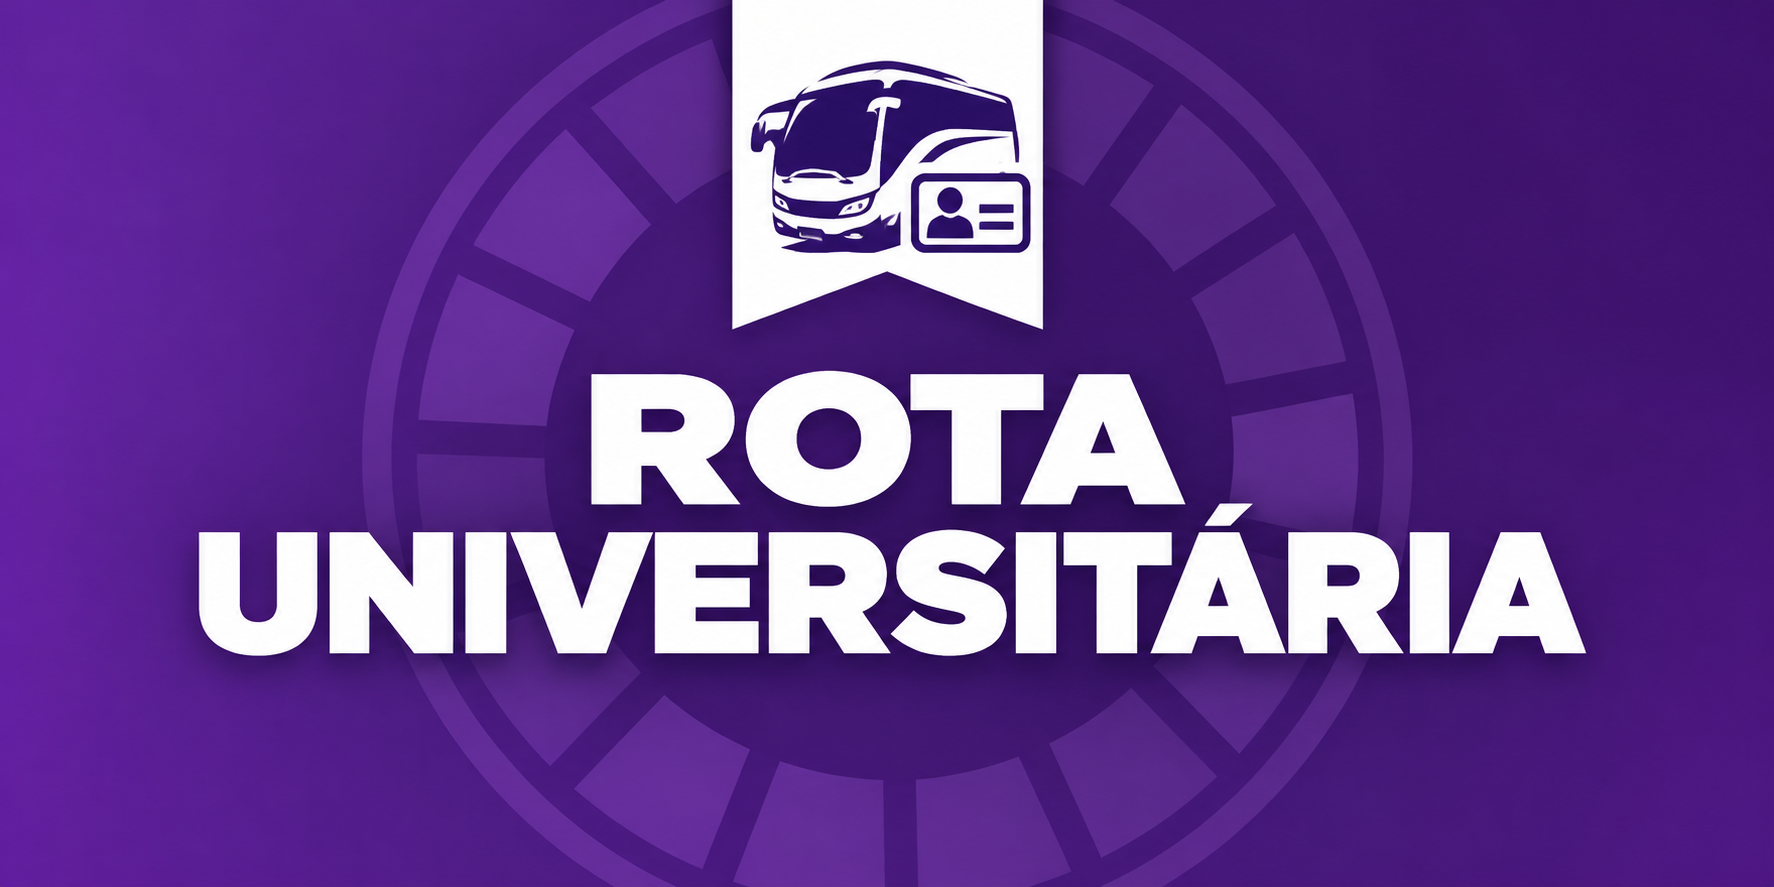
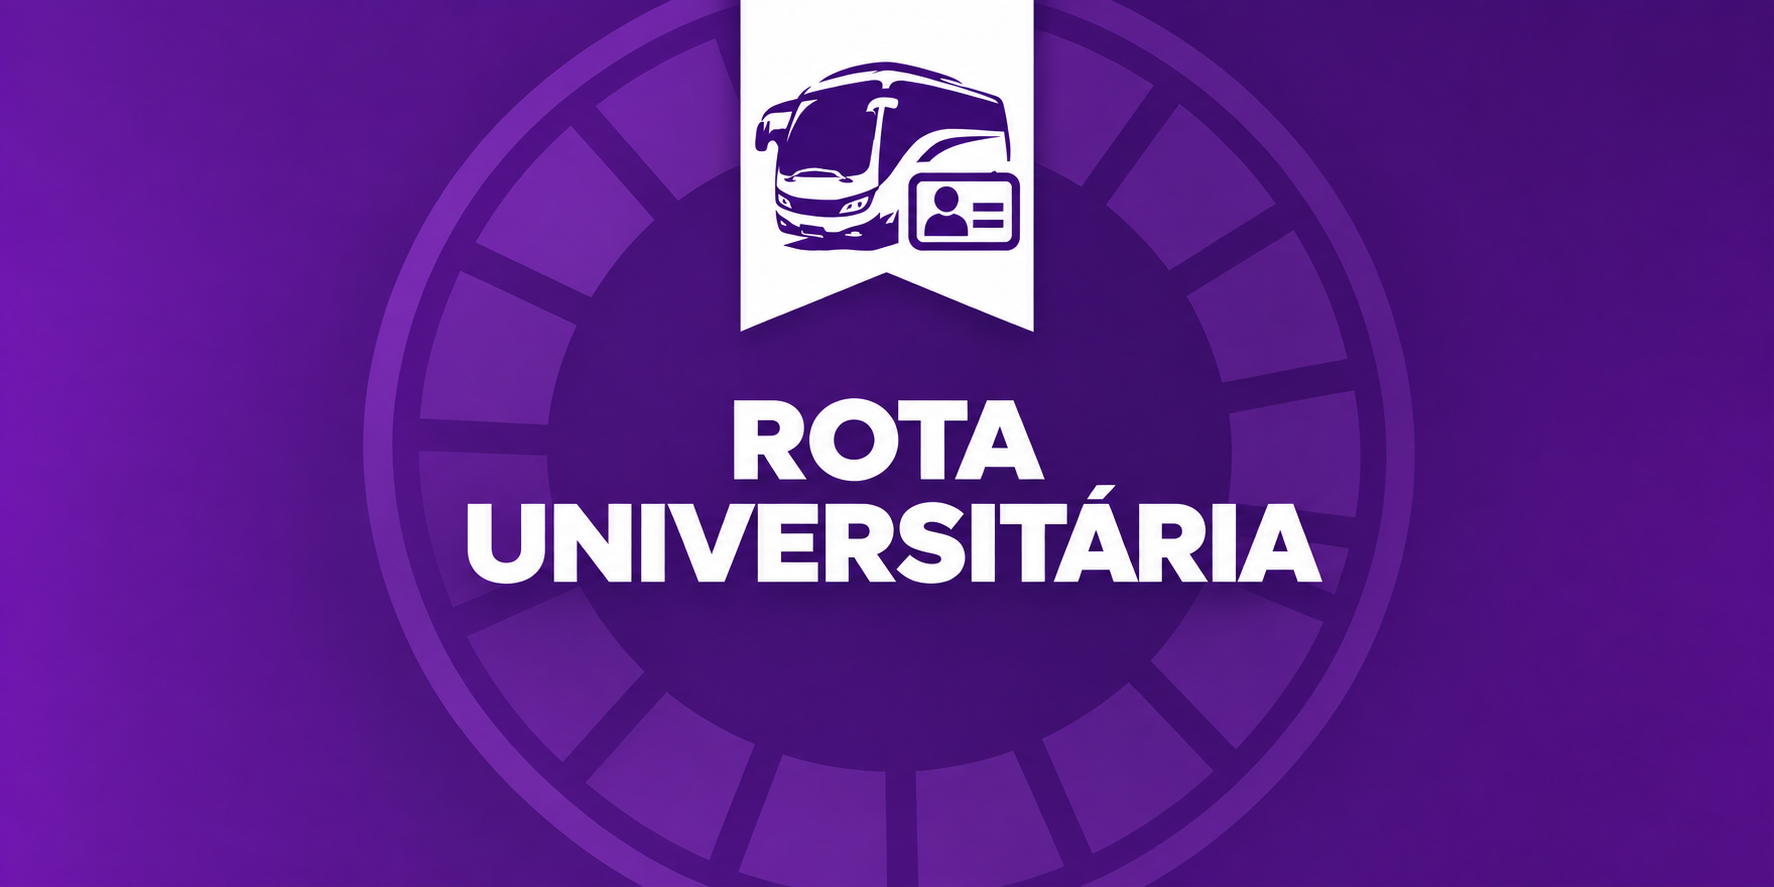
Atualiza imagem Rota Universitaria

diff --git a/index.html b/index.html
@@ -1433,7 +1433,7 @@
                                             <!-- End Single Item --><!-- Single Item -->
                                             <div class="item item-banner" data-thumb="images/I81nPteFTFaO.png">
                                                 <div class="icon" style="display: block; margin: -50px -50px 30px; line-height: 0;">
-                                                    <img src="images/Rota%20Universit%C3%A1ria.png" alt="Rota universitária" style="display: block; width: 100%; height: auto; aspect-ratio: 2 / 1; object-fit: cover;">
+                                                    <img src="images/Rota%20Universit%C3%A1ria.png?v=2" alt="Rota universitária" style="display: block; width: 100%; height: auto; aspect-ratio: 2 / 1; object-fit: cover;">
                                                 </div>
                                                 <h3>Secretaria de Transporte</h3>
                                                 <p>O aplicativo universitário oferece monitoramento dos ônibus durante o percurso, gestão das carteirinhas para a Secretaria de Transporte, avisos institucionais do município via SECOM e as regras e dicas importantes durante o percurso.</p>

diff --git a/microempreendedores/index.html b/microempreendedores/index.html
@@ -1412,7 +1412,7 @@
                                             <!-- End Single Item --><!-- Single Item -->
                                             <div class="item item-banner" data-thumb="images/I81nPteFTFaO.png">
                                                 <div class="icon" style="display: block; margin: -50px -50px 30px; line-height: 0;">
-                                                    <img src="images/Rota%20Universit%C3%A1ria.png" alt="Rota universitária" style="display: block; width: 100%; height: auto; aspect-ratio: 2 / 1; object-fit: cover;">
+                                                    <img src="images/Rota%20Universit%C3%A1ria.png?v=2" alt="Rota universitária" style="display: block; width: 100%; height: auto; aspect-ratio: 2 / 1; object-fit: cover;">
                                                 </div>
                                                 <h3>Secretaria de Transporte</h3>
                                                 <p>O aplicativo universitário oferece monitoramento dos ônibus durante o percurso, gestão das carteirinhas para a Secretaria de Transporte, avisos institucionais do município via SECOM e as regras e dicas importantes durante o percurso.</p>

diff --git a/transporte/index.html b/transporte/index.html
@@ -1442,7 +1442,7 @@
                                             <!-- End Single Item --><!-- Single Item -->
                                             <div class="item item-banner" data-thumb="images/I81nPteFTFaO.png">
                                                 <div class="icon" style="display: block; margin: -50px -50px 30px; line-height: 0;">
-                                                    <img src="images/Rota%20Universit%C3%A1ria.png" alt="Rota universitária" style="display: block; width: 100%; height: auto; aspect-ratio: 2 / 1; object-fit: cover;">
+                                                    <img src="images/Rota%20Universit%C3%A1ria.png?v=2" alt="Rota universitária" style="display: block; width: 100%; height: auto; aspect-ratio: 2 / 1; object-fit: cover;">
                                                 </div>
                                                 <h3>Secretaria de Transporte</h3>
                                                 <p>O aplicativo universitário oferece monitoramento dos ônibus durante o percurso, gestão das carteirinhas para a Secretaria de Transporte, avisos institucionais do município via SECOM e as regras e dicas importantes durante o percurso.</p>
